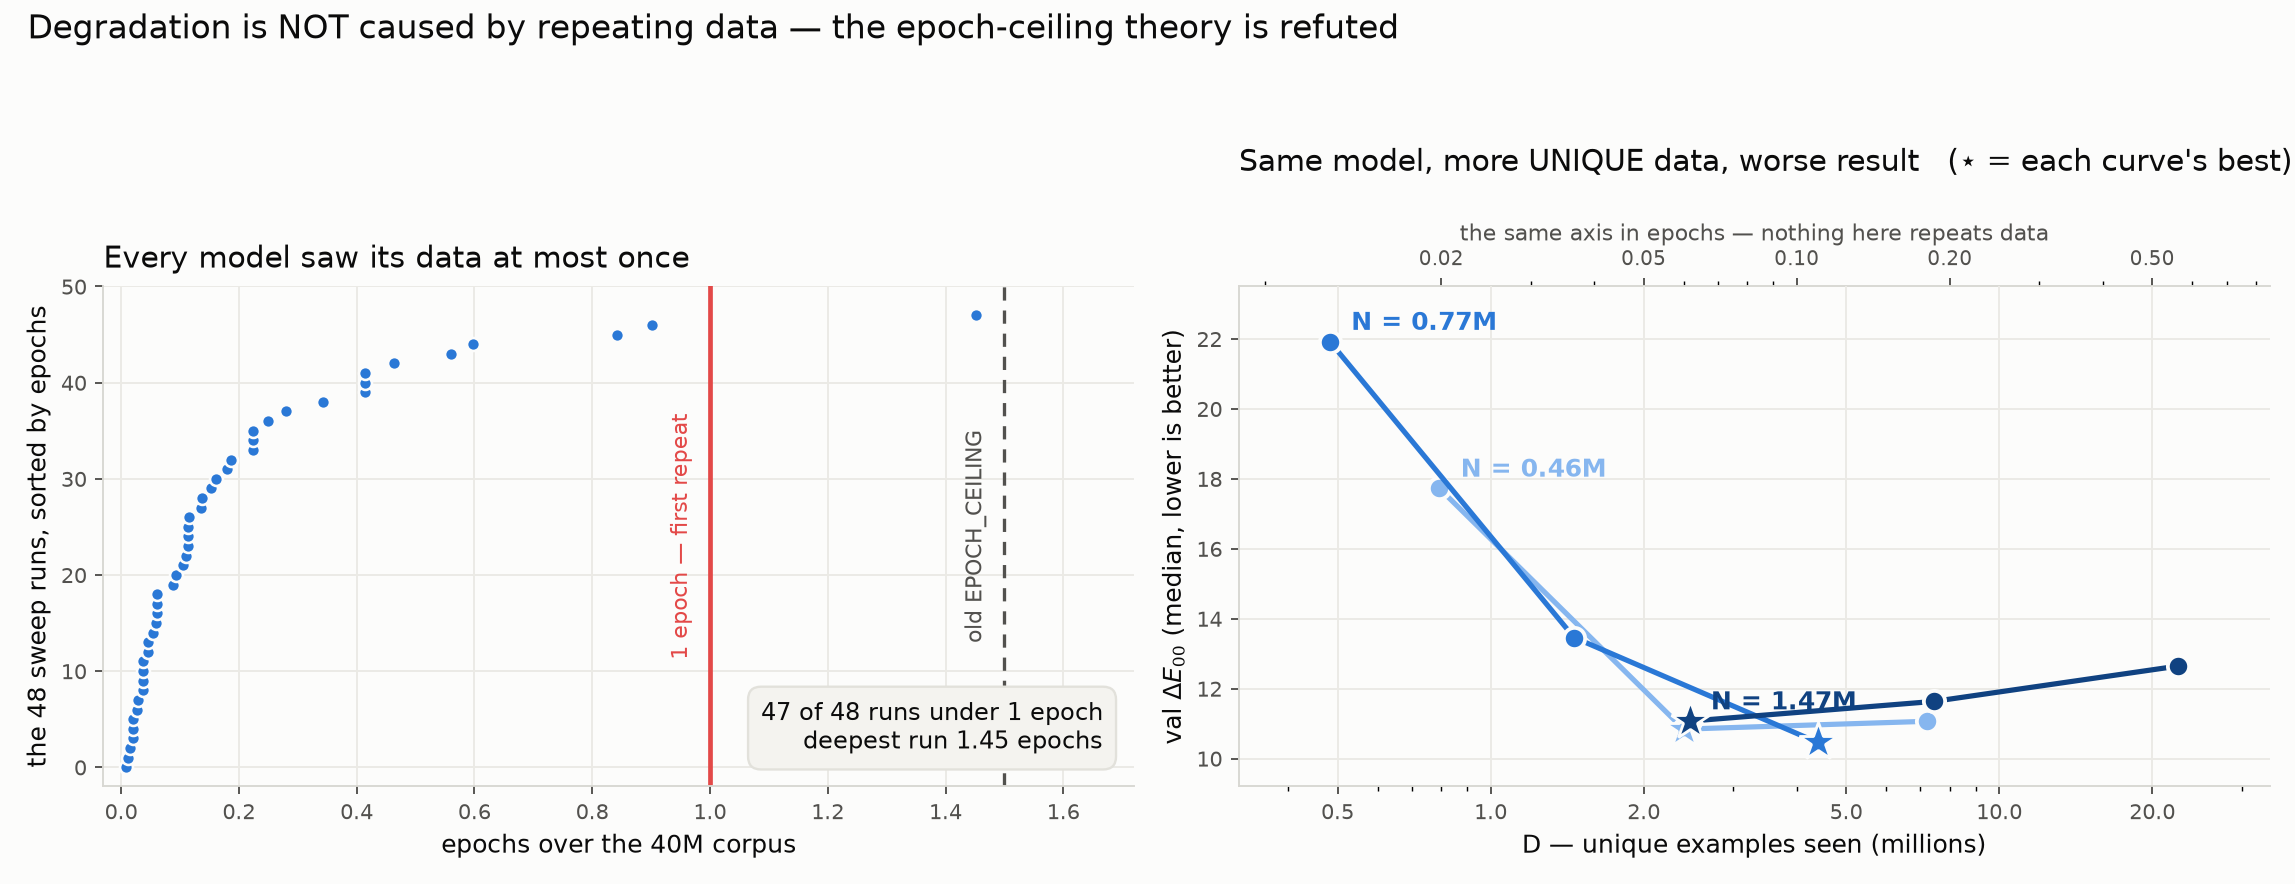
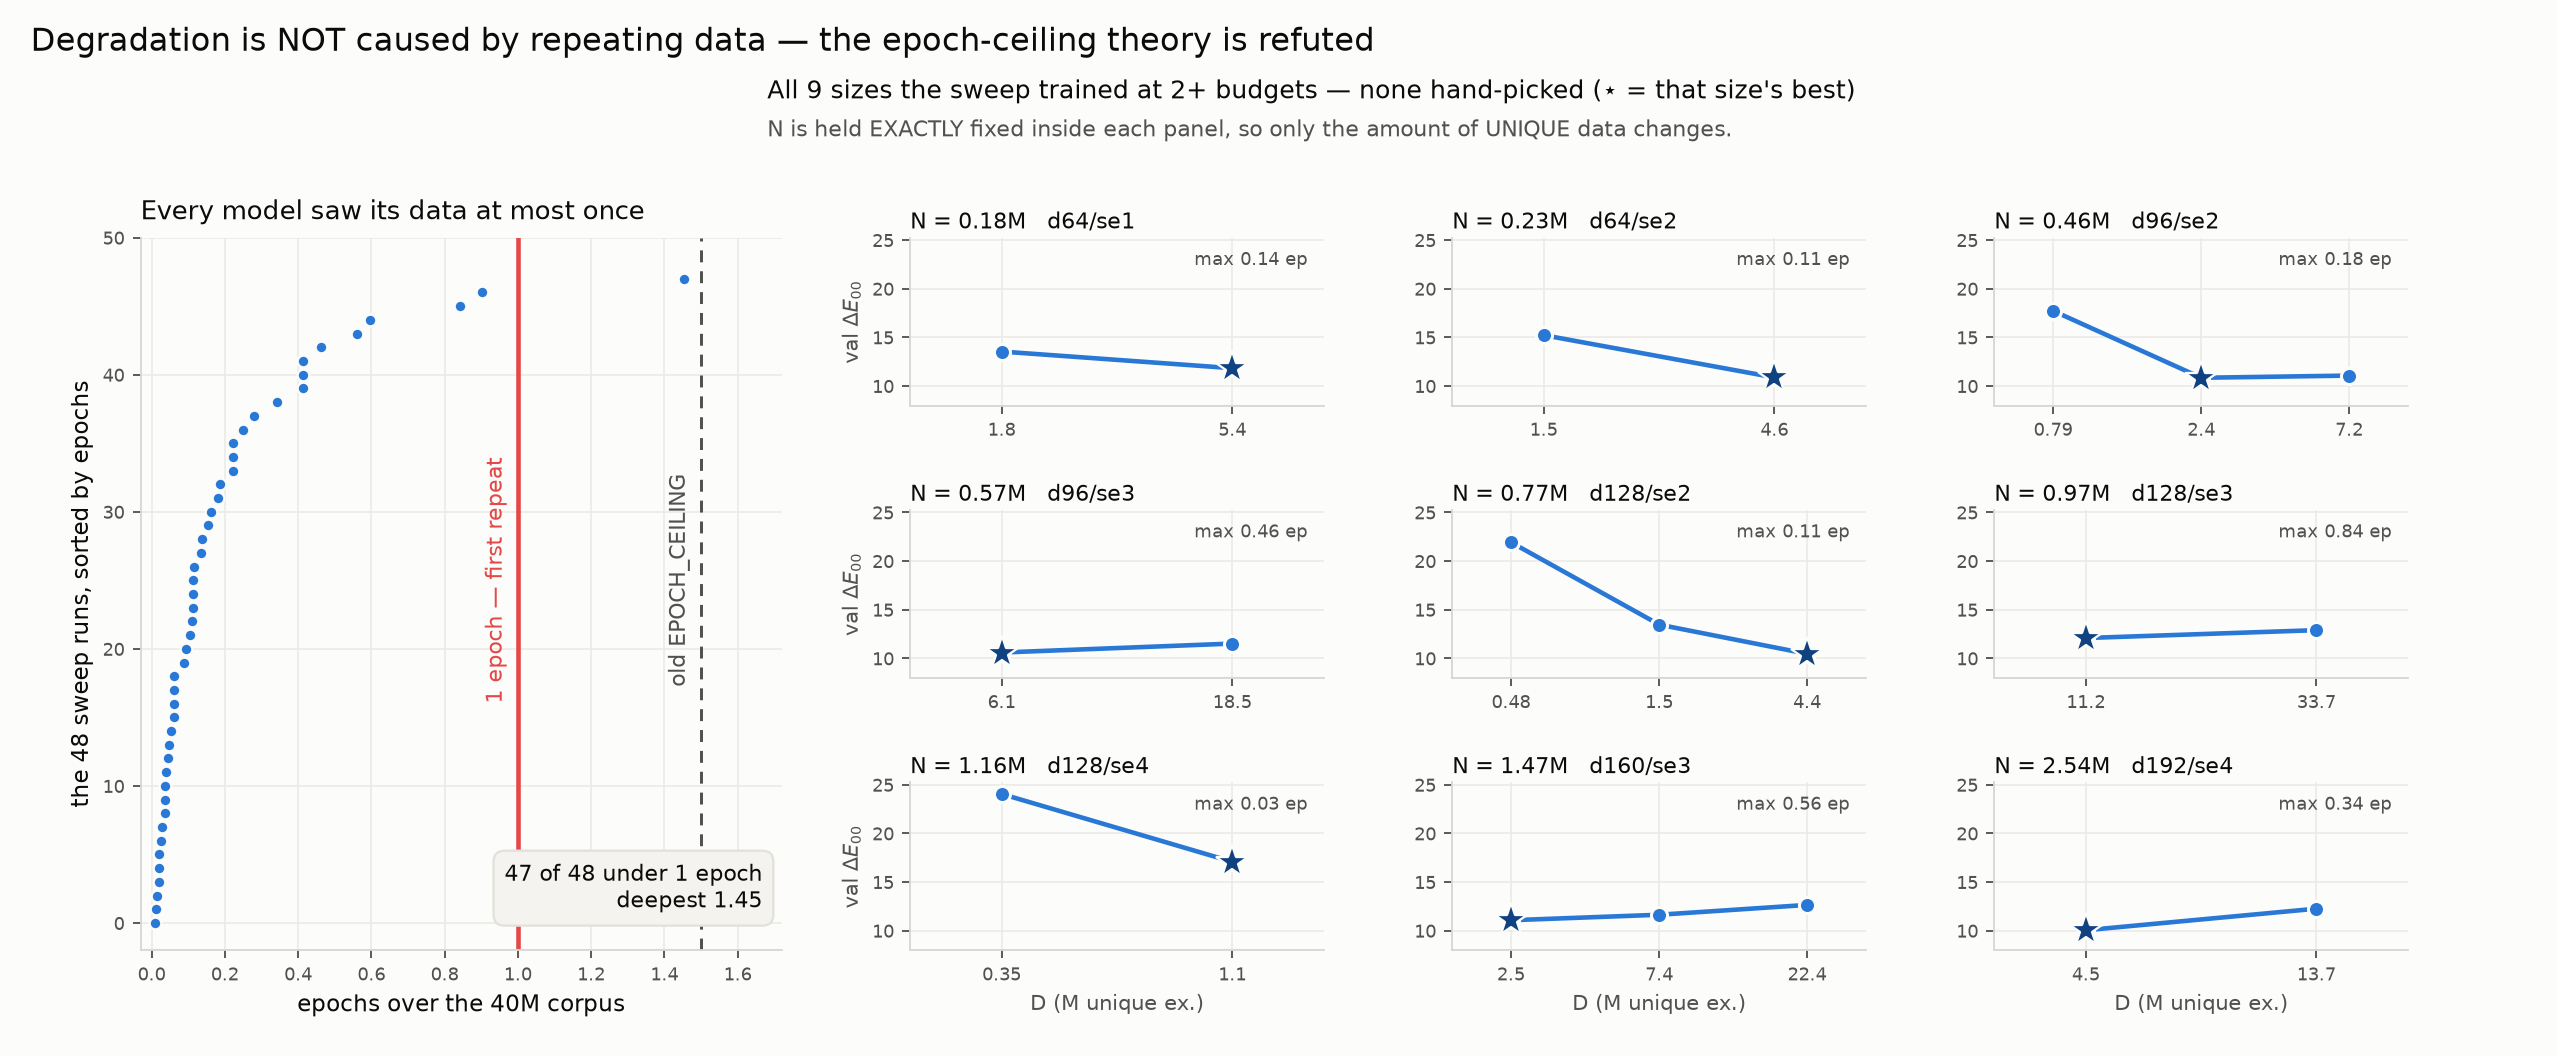
Show all nine iso-N series, not a hand-picked three
The previous figure plotted three sizes without saying which or why, which
reads as cherry-picking. It replots every size the sweep trained at 2 or more
budgets -- all 9 of the 24 distinct sizes -- as small multiples, each titled
with its parameter count AND architecture, each tick sitting on an actual D
value rather than a log decade, and each panel carrying the deepest epoch
count it reached.

Worth stating plainly because it was asked and the old figure did not say:
these are NOT the largest models. They are the mid-range sizes the rungs
happen to share, 0.18M to 2.54M parameters, because a size only qualifies by
appearing at more than one budget. Showing all nine includes the four that
descend monotonically and never turn, which is the honest picture.

Claude-Session: https://claude.ai/code/session_01XghrhY6CG3yHYV4KvDtBnM

diff --git a/analyses/scaling/plot_epoch_ceiling_refuted.py b/analyses/scaling/plot_epoch_ceiling_refuted.py
@@ -1,100 +1,121 @@
 """Figure: the epoch-ceiling theory is refuted.
 
-Left  -- epochs every one of the 48 sweep runs actually saw. 47 of 48 are
-         under one epoch, so they never revisited a single example, and the
-         deepest run reached 1.45 epochs.
-Right -- three model sizes held EXACTLY fixed while D grows. Each improves,
-         bottoms out, then gets worse, entirely within the no-repeat region.
+Left  -- epochs every one of the 48 sweep runs actually saw. 47 of 48 are under
+         one epoch, so they never revisited a single example; the deepest run
+         reached 1.45 epochs.
 
-Repetition cannot explain degradation that happens before anything repeats.
-Colours are the dataviz skill's ordinal blue ramp (steps 250/450/650),
-validated with scripts/validate_palette.js --ordinal: monotone lightness,
-all adjacent gaps >= 0.06, light end 2.06:1 on the light surface.
+Right -- EVERY model size that appears at more than one budget, as small
+         multiples. Selection rule: a size qualifies if the sweep trained it at
+         2+ distinct D. That is 9 of the 20 distinct sizes, and they are NOT
+         the largest -- they are the mid-range sizes the rungs happen to share,
+         spanning 0.18M to 2.54M parameters. Nothing is hand-picked: all 9 are
+         shown, including the two that do not turn.
+
+Within a panel N is held EXACTLY fixed, so the only thing changing is how much
+UNIQUE data the model saw. Repetition cannot explain a rise that happens before
+anything repeats.
+
+Colour is the dataviz skill's ordinal blue ramp, validated with
+scripts/validate_palette.js --ordinal rather than by eye.
 """
-import json, collections
+import json, sys, collections
 import matplotlib; matplotlib.use("Agg")
 import matplotlib.pyplot as plt
-from matplotlib.ticker import FixedLocator, FixedFormatter
+from matplotlib.gridspec import GridSpec
 
-import sys
 FIT = sys.argv[1] if len(sys.argv) > 1 else "analyses/scaling/results/isoflop_fit.json"
 d = json.load(open(FIT))
 CORPUS = 39_980_000
-RAMP = ["#86b6ef", "#2a78d6", "#104281"]     # 3 validated ordinal steps
+BLUE, DARK = "#2a78d6", "#104281"
 SURF, INK, INK2 = "#fcfcfb", "#0b0b0b", "#52514e"
 ACCENT = "#e34948"
 
 runs = d["runs"]
+shape = {}          # n_params -> "d128/se3"
+for r in runs:
+    parts = r["name"].split("_")
+    shape[r["n_params"]] = f"{parts[2]}/{parts[3]}"
 by_n = collections.defaultdict(lambda: collections.defaultdict(list))
 for r in runs:
     by_n[r["n_params"]][r["passes"]].append(r)
+multi = sorted(n for n in by_n if len(by_n[n]) >= 2)
 
-fig, axes = plt.subplots(1, 2, figsize=(13.5, 5.2), facecolor=SURF)
-for ax in axes:
+fig = plt.figure(figsize=(15.5, 6.4), facecolor=SURF)
+gs = GridSpec(3, 5, figure=fig, width_ratios=[1.55, 1, 1, 1, 0.02],
+              hspace=0.62, wspace=0.34, left=0.055, right=0.995,
+              top=0.775, bottom=0.10)
+
+def style(ax):
     ax.set_facecolor(SURF)
     for s in ("top", "right"): ax.spines[s].set_visible(False)
     for s in ("left", "bottom"): ax.spines[s].set_color("#d8d7d2")
-    ax.tick_params(colors=INK2, labelsize=9)
-    ax.grid(True, color="#ebeae5", linewidth=0.8); ax.set_axisbelow(True)
+    ax.tick_params(colors=INK2, labelsize=8)
+    ax.grid(True, color="#ebeae5", linewidth=0.7); ax.set_axisbelow(True)
 
-# ---- A: epochs actually seen ------------------------------------------------
-ax = axes[0]
+# ---- A: epochs seen ---------------------------------------------------------
+ax = fig.add_subplot(gs[:, 0]); style(ax)
 eps = sorted(r["passes"] / CORPUS for r in runs)
-ax.scatter(eps, range(len(eps)), s=30, color=RAMP[1], edgecolor=SURF,
-           linewidth=1.1, zorder=3)
+ax.scatter(eps, range(len(eps)), s=26, color=BLUE, edgecolor=SURF,
+           linewidth=1.0, zorder=3)
 ax.axvline(1.0, color=ACCENT, linewidth=2, zorder=2)
-ax.text(0.97, 24, "1 epoch — first repeat", color=ACCENT, fontsize=9.5,
+ax.text(0.97, 25, "1 epoch — first repeat", color=ACCENT, fontsize=9.5,
         rotation=90, va="center", ha="right")
-ax.axvline(1.5, color=INK2, linewidth=1.4, linestyle=(0, (4, 3)), zorder=2)
-ax.text(1.47, 24, "old EPOCH_CEILING", color=INK2, fontsize=9.5,
+ax.axvline(1.5, color=INK2, linewidth=1.3, linestyle=(0, (4, 3)), zorder=2)
+ax.text(1.47, 25, "old EPOCH_CEILING", color=INK2, fontsize=9.5,
         rotation=90, va="center", ha="right")
-ax.set_xlabel("epochs over the 40M corpus", color=INK, fontsize=10.5)
-ax.set_ylabel("the 48 sweep runs, sorted by epochs", color=INK, fontsize=10.5)
+ax.set_xlabel("epochs over the 40M corpus", color=INK, fontsize=10)
+ax.set_ylabel("the 48 sweep runs, sorted by epochs", color=INK, fontsize=10)
 ax.set_title("Every model saw its data at most once", color=INK,
-             fontsize=12.5, loc="left", pad=8)
+             fontsize=11.5, loc="left", pad=8)
 ax.set_xlim(-0.03, 1.72); ax.set_ylim(-2, 50)
-ax.text(0.97, 0.06, f"47 of 48 runs under 1 epoch\ndeepest run {max(eps):.2f} epochs",
-        transform=ax.transAxes, ha="right", va="bottom", fontsize=10, color=INK,
-        bbox=dict(boxstyle="round,pad=0.55", fc="#f4f3ef", ec="#e2e1db"))
+ax.text(0.97, 0.05, f"47 of 48 under 1 epoch\ndeepest {max(eps):.2f}",
+        transform=ax.transAxes, ha="right", va="bottom", fontsize=9.5, color=INK,
+        bbox=dict(boxstyle="round,pad=0.5", fc="#f4f3ef", ec="#e2e1db"))
 
-# ---- B: iso-N, only the three series with 3 D-points ------------------------
-ax = axes[1]
-for i, n in enumerate([456549, 767013, 1472773]):
+# ---- B: small multiples, every size trained at 2+ budgets --------------------
+lo = min(min(r["val_de"]["pooled"] for rs in by_n[n].values() for r in rs) for n in multi)
+hi = max(max(r["val_de"]["pooled"] for rs in by_n[n].values() for r in rs) for n in multi)
+for k, n in enumerate(multi):
+    ax = fig.add_subplot(gs[k // 3, 1 + k % 3]); style(ax)
     ds = sorted(by_n[n])
     xs = [p / 1e6 for p in ds]
     ys = [sum(x["val_de"]["pooled"] for x in by_n[n][p]) / len(by_n[n][p]) for p in ds]
-    ax.plot(xs, ys, "-o", color=RAMP[i], linewidth=2.2, markersize=9,
-            markeredgecolor=SURF, markeredgewidth=1.6, zorder=3)
-    # label at the FIRST point, where the three series are well separated;
-    # at the right-hand end they converge and the labels collide
-    ax.annotate(f"N = {n/1e6:.2f}M", (xs[0], ys[0]), textcoords="offset points",
-                xytext=(9, 5), color=RAMP[i], fontsize=10.5, fontweight="bold")
-    # mark each curve's own best, and shade what happens after it
-    jbest = min(range(len(ys)), key=lambda j: ys[j])
-    ax.plot([xs[jbest]], [ys[jbest]], "*", color=RAMP[i], markersize=17,
-            markeredgecolor=SURF, markeredgewidth=1.2, zorder=4)
-ax.set_xscale("log")
-ax.set_xlim(0.32, 34)
-ax.set_ylim(9.2, 23.5)
-ax.set_xticks([0.5, 1, 2, 5, 10, 20])
-ax.get_xaxis().set_major_formatter(plt.ScalarFormatter())
-ax.set_xlabel("D — unique examples seen (millions)", color=INK, fontsize=10.5)
-ax.set_ylabel(r"val $\Delta E_{00}$ (median, lower is better)", color=INK, fontsize=10.5)
-ax.set_title("Same model, more UNIQUE data, worse result   "
-             r"($\star$ = each curve's best)", color=INK,
-             fontsize=12.5, loc="left", pad=22)
-sec = ax.secondary_xaxis("top", functions=(lambda v: v * 1e6 / CORPUS,
-                                           lambda v: v * CORPUS / 1e6))
-sec.xaxis.set_major_locator(FixedLocator([0.02, 0.05, 0.1, 0.2, 0.5]))
-sec.xaxis.set_major_formatter(FixedFormatter(["0.02", "0.05", "0.10", "0.20", "0.50"]))
-sec.set_xlabel("the same axis in epochs — nothing here repeats data",
-               color=INK2, fontsize=9.5, labelpad=4)
-sec.tick_params(colors=INK2, labelsize=8.5)
-sec.spines["top"].set_color("#d8d7d2")
+    ax.plot(xs, ys, "-o", color=BLUE, linewidth=2, markersize=7,
+            markeredgecolor=SURF, markeredgewidth=1.3, zorder=3)
+    j = min(range(len(ys)), key=lambda i: ys[i])
+    ax.plot([xs[j]], [ys[j]], "*", color=DARK, markersize=15,
+            markeredgecolor=SURF, markeredgewidth=1.0, zorder=4)
+    ax.set_xscale("log"); ax.set_ylim(lo - 1.2, hi + 1.2)
+    # Tick exactly at the D values this size was trained at, as plain numbers.
+    # matplotlib's default log decades collide badly inside a small panel and
+    # hide which D values were actually run.
+    ax.set_xticks(xs); ax.set_xticklabels([f"{v:.1f}" if v >= 1 else f"{v:.2f}" for v in xs], fontsize=8)
+    ax.set_xticks([], minor=True)
+    ax.set_xlim(min(xs) / 1.55, max(xs) * 1.55)
+    ax.set_title(f"N = {n/1e6:.2f}M   {shape[n]}", color=INK, fontsize=9.5,
+                 loc="left", pad=4)
+    worst_ep = max(ds) / CORPUS
+    ax.text(0.96, 0.92, f"max {worst_ep:.2f} ep", transform=ax.transAxes,
+            ha="right", va="top", fontsize=8, color=INK2)
+    if k // 3 == 2: ax.set_xlabel("D (M unique ex.)", color=INK2, fontsize=9)
+    if k % 3 == 0: ax.set_ylabel(r"val $\Delta E_{00}$", color=INK2, fontsize=9)
 
-fig.suptitle("Degradation is NOT caused by repeating data — the epoch-ceiling theory is refuted",
-             color=INK, fontsize=14, x=0.012, ha="left", y=0.985)
-fig.tight_layout(rect=[0, 0, 1, 0.93])
+fig.text(0.012, 0.975,
+         "Degradation is NOT caused by repeating data — the epoch-ceiling theory is refuted",
+         color=INK, fontsize=14, ha="left", va="top")
+fig.text(0.30, 0.925,
+         "All 9 sizes the sweep trained at 2+ budgets — none hand-picked "
+         r"($\star$ = that size's best)",
+         color=INK, fontsize=11, ha="left", va="top")
+fig.text(0.30, 0.887,
+         "N is held EXACTLY fixed inside each panel, so only the amount of UNIQUE data changes.",
+         color=INK2, fontsize=9.5, ha="left", va="top")
 out = "analyses/scaling/results/epoch_ceiling_refuted.png"
-fig.savefig(out, dpi=170, facecolor=SURF)
-print("wrote", out)
+fig.savefig(out, dpi=165, facecolor=SURF)
+print(f"wrote {out}")
+print(f"\nsizes shown ({len(multi)} of {len(by_n)} distinct sizes in the sweep):")
+for n in multi:
+    ds = sorted(by_n[n])
+    print(f"  N={n:>9,}  {shape[n]:>9}  D = "
+          + ", ".join(f"{p/1e6:.1f}M" for p in ds)
+          + f"   (max {max(ds)/CORPUS:.2f} epochs)")
